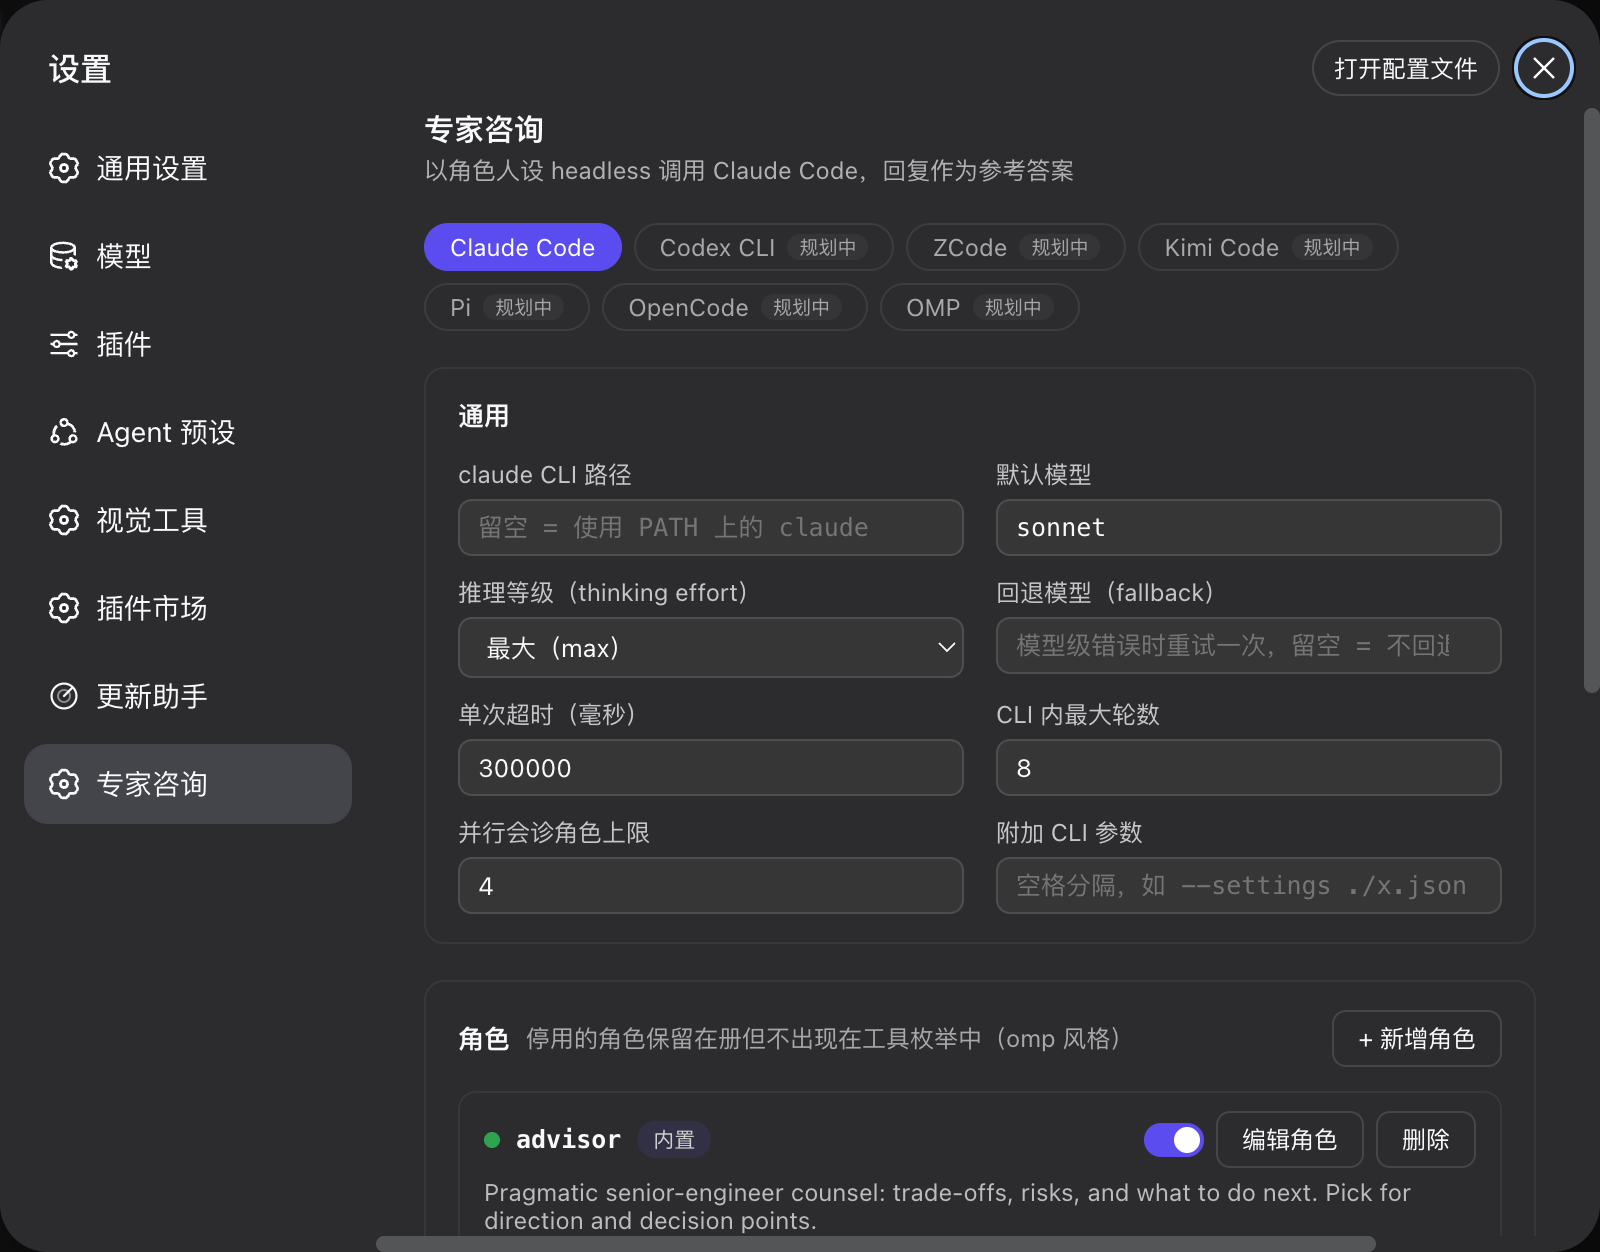
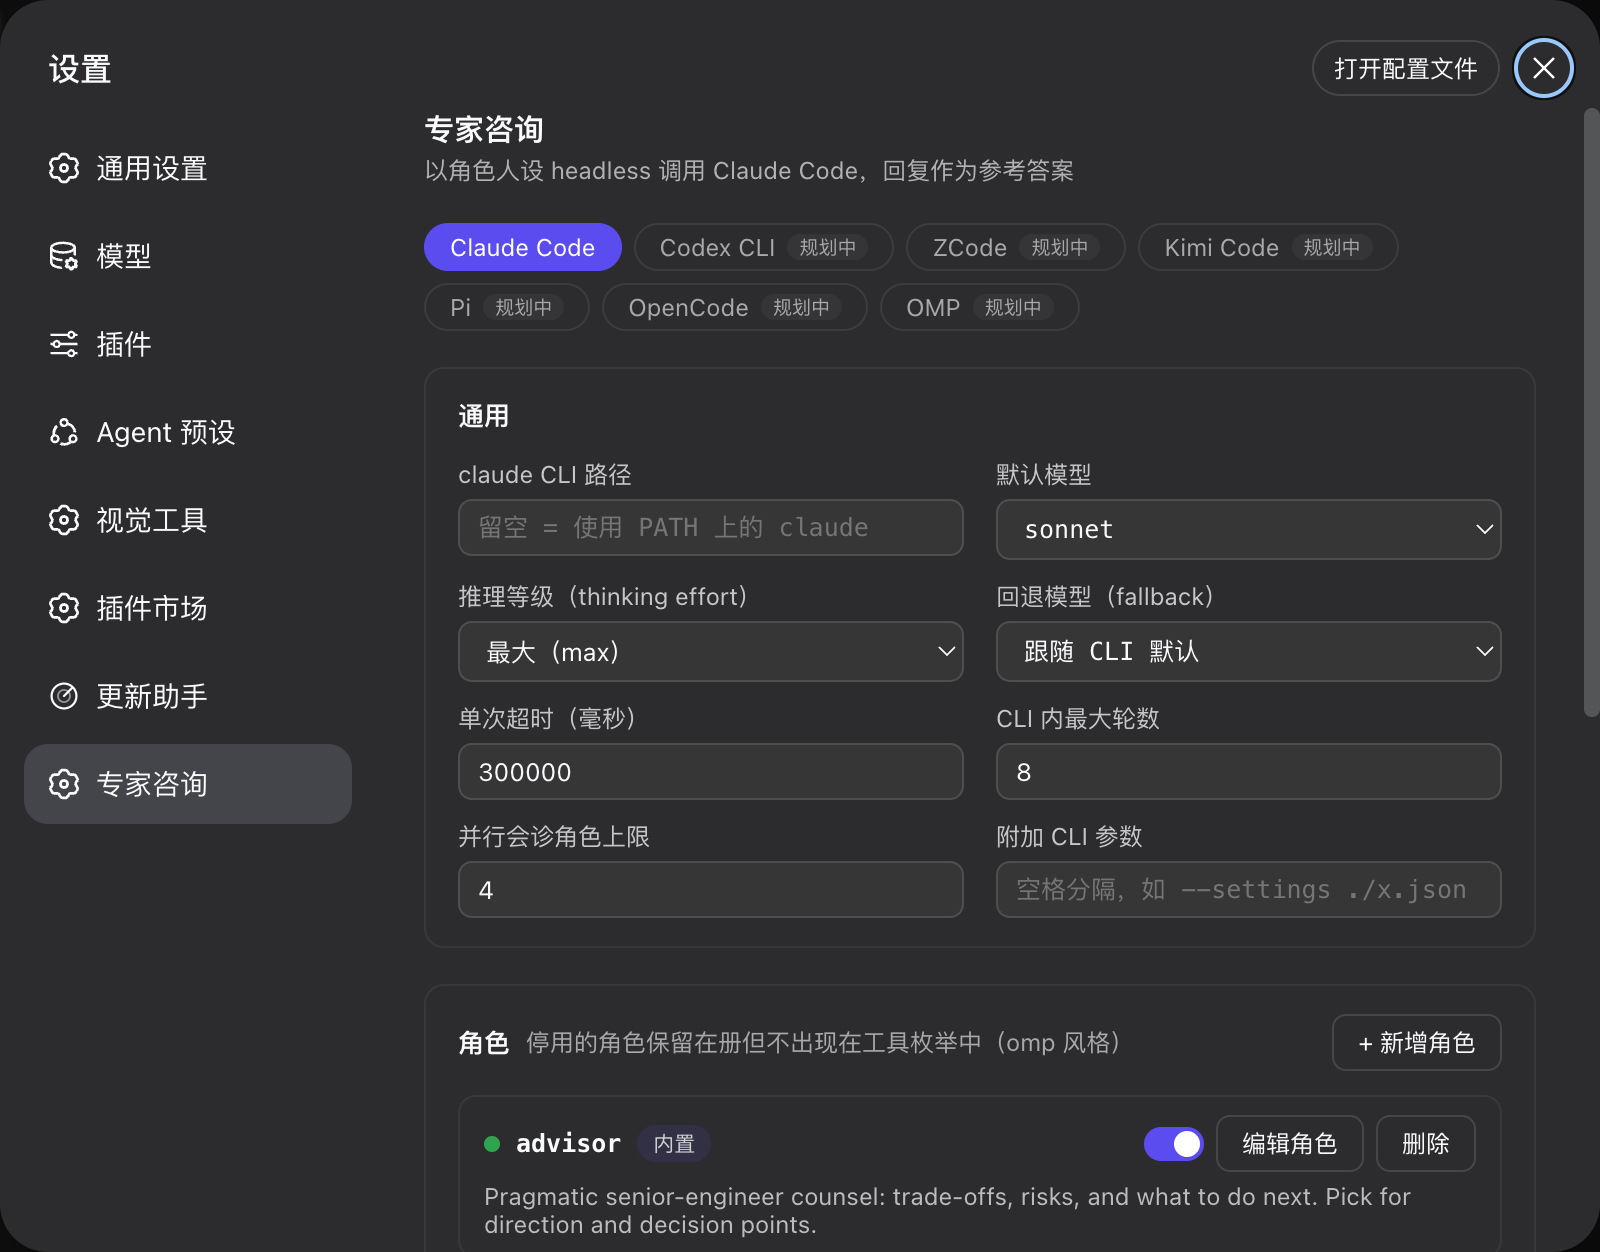
Align role cards: metadata pills get their own row
A role with model/fallback/effort pills crammed them into the identity
row, crowding the right-aligned controls and making such cards look
structurally different from pill-less built-ins. Fixed layout: identity
row (dot + name + type badge, controls pinned right) is now identical
for every role; model/fallback/effort render as a separate meta row that
only appears when set; description stays last. README screenshot
retaken.

diff --git a/client/client.js b/client/client.js
@@ -189,7 +189,9 @@ const CSS = [
   '.dco-row{display:flex;align-items:center;gap:8px}',
   '.dco-roles{display:flex;flex-direction:column;gap:8px}',
   '.dco-role{border:1px solid var(--dsw-alias-border-l1,rgba(127,127,127,.25));border-radius:9px;padding:9px 12px;display:flex;flex-direction:column;gap:5px}',
-  '.dco-role-top{display:flex;align-items:center;gap:8px}',
+  '.dco-role-top{display:flex;align-items:center;gap:8px;flex-wrap:wrap}',
+  '.dco-role-meta{display:flex;flex-wrap:wrap;gap:6px}',
+  '.dco-role-top+.dco-role-meta{margin-top:-2px}',
   '.dco-dot{width:8px;height:8px;border-radius:50%;flex:none;background:var(--dsw-alias-success,#2ea44f)}',
   '.dco-dot.off{background:var(--dsw-alias-danger,rgba(200,60,60,.8));opacity:.5}',
   '.dco-role-name{font-family:var(--dsw-alias-font-mono,monospace);font-size:12.5px;font-weight:600}',
@@ -534,20 +536,24 @@ function Section({ t }) {
         h('span', { style: { marginLeft: 'auto' } },
           h('button', { className: 'dco-btn', onClick: () => setEditing({ role: { name: '', label: '', description: '', systemPrompt: '', model: '', fallbackModel: '', enabled: true }, isNew: true }) }, `+ ${t('addRole')}`))),
       h('div', { className: 'dco-roles' },
-        draft.roles.map((role, index) => h('div', { className: 'dco-role', key: role.name || index },
-          h('div', { className: 'dco-role-top' },
-            h('span', { className: `dco-dot${role.enabled === false ? ' off' : ''}` }),
-            h('span', { className: 'dco-role-name' }, role.name),
-            role.label ? h('span', { style: { fontSize: '12px', opacity: .7 } }, role.label) : null,
-            BUILTIN_NAMES.has(role.name) ? h('span', { className: 'dco-pill tag' }, t('builtin')) : h('span', { className: 'dco-pill' }, t('custom')),
-            role.model ? h('span', { className: 'dco-pill' }, `${t('roleModelPill')}: ${role.model}`) : null,
-            role.fallbackModel ? h('span', { className: 'dco-pill' }, `${t('roleFallbackPill')}: ${role.fallbackModel}`) : null,
-            role.effort ? h('span', { className: 'dco-pill tag' }, `${t('effort')}: ${role.effort}`) : null,
-            h('span', { style: { marginLeft: 'auto', display: 'flex', gap: '6px', alignItems: 'center' } },
-              h(Switch, { on: role.enabled !== false, title: t('enabled'), onToggle: () => setRole(index, { enabled: role.enabled === false }) }),
-              h('button', { className: 'dco-btn', onClick: () => setEditing({ role, isNew: false }) }, t('editRole')),
-              h('button', { className: 'dco-btn danger', onClick: () => { if (window.confirm(t('confirmDelete'))) setDraft((prev) => ({ ...prev, roles: prev.roles.filter((_, i) => i !== index) })) } }, t('delete')))),
-          h('div', { className: 'dco-role-desc' }, role.description ?? ''))))),
+        draft.roles.map((role, index) => {
+          const meta = []
+          if (role.model) meta.push(h('span', { key: 'm', className: 'dco-pill' }, `${t('roleModelPill')}: ${role.model}`))
+          if (role.fallbackModel) meta.push(h('span', { key: 'f', className: 'dco-pill' }, `${t('roleFallbackPill')}: ${role.fallbackModel}`))
+          if (role.effort) meta.push(h('span', { key: 'e', className: 'dco-pill' }, `${t('effort')}: ${role.effort}`))
+          return h('div', { className: 'dco-role', key: role.name || index },
+            h('div', { className: 'dco-role-top' },
+              h('span', { className: `dco-dot${role.enabled === false ? ' off' : ''}` }),
+              h('span', { className: 'dco-role-name' }, role.name),
+              role.label ? h('span', { style: { fontSize: '12px', opacity: .7 } }, role.label) : null,
+              BUILTIN_NAMES.has(role.name) ? h('span', { className: 'dco-pill tag' }, t('builtin')) : h('span', { className: 'dco-pill' }, t('custom')),
+              h('span', { style: { marginLeft: 'auto', display: 'flex', gap: '6px', alignItems: 'center' } },
+                h(Switch, { on: role.enabled !== false, title: t('enabled'), onToggle: () => setRole(index, { enabled: role.enabled === false }) }),
+                h('button', { className: 'dco-btn', onClick: () => setEditing({ role, isNew: false }) }, t('editRole')),
+                h('button', { className: 'dco-btn danger', onClick: () => { if (window.confirm(t('confirmDelete'))) setDraft((prev) => ({ ...prev, roles: prev.roles.filter((_, i) => i !== index) })) } }, t('delete')))),
+            meta.length > 0 ? h('div', { className: 'dco-role-meta' }, meta) : null,
+            h('div', { className: 'dco-role-desc' }, role.description ?? ''))
+        })))),
 
     h(TestPanel, { t, roles: draft.roles }),
 
@@ -567,7 +573,7 @@ function Section({ t }) {
         setDraft((prev) => ({ ...prev, roles }))
         setEditing(null)
       },
-    })))
+    }))
 }
 
 exports.name = 'dsh-capability-optimizer'
